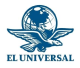
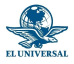
cambios de color en las letras

Changed region(s): [[0.0811, 0.0625, 0.9459, 0.9062]]

diff --git a/style.css b/style.css
@@ -288,10 +288,12 @@ footer .gray {
 
 .news-card a {
     text-decoration: none;
+    color: rgba(43, 45, 66, 0.9);
 }
 
 .promoted-card a {
     text-decoration: none;
+    color: rgba(43, 45, 66, 0.9);
 }
 
 .news-card {
